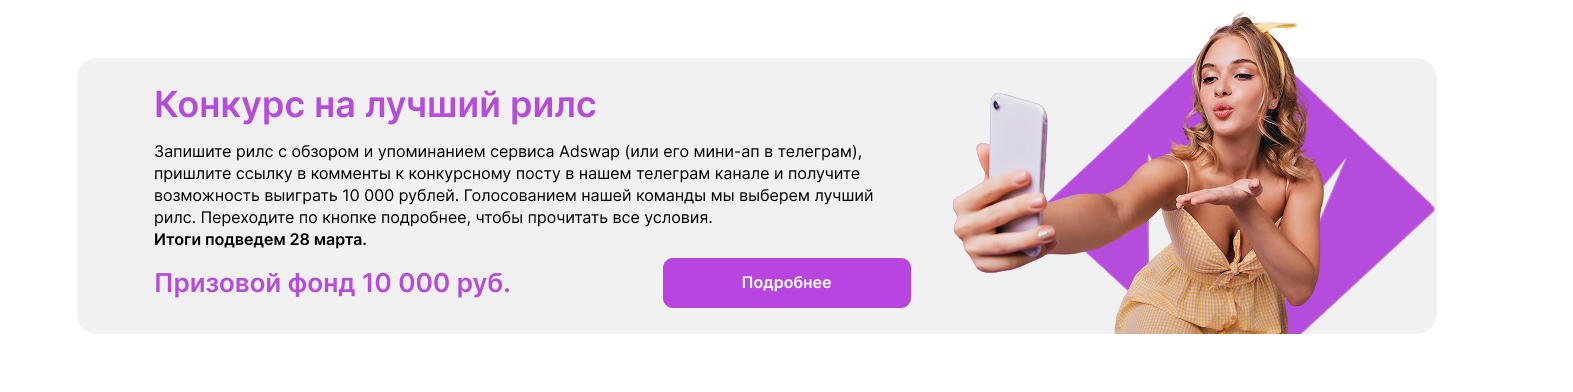
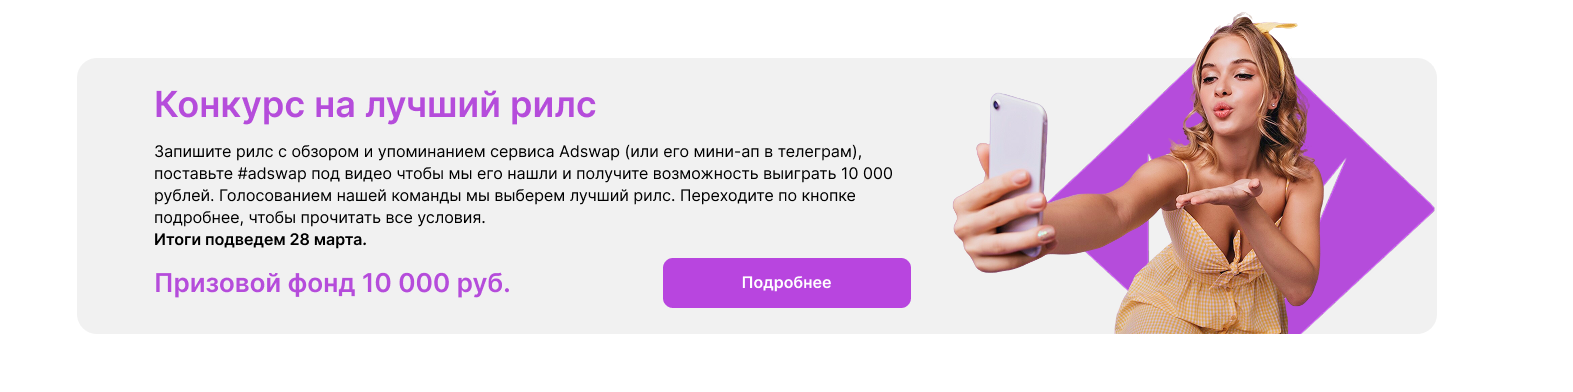
в очередной раз исправляю текст в баннере в предложениях

Changed region(s): [[0.0935, 0.4286, 0.5607, 0.5816]]

diff --git a/resources/js/src/modules/public/seller/partners/index.vue b/resources/js/src/modules/public/seller/partners/index.vue
@@ -17,8 +17,8 @@
                                     Конкурс на лучший рилс
                                 </div>
                                 <div class="partners__item-text">
-                                    Запишите рилс с образом и упоминание сервиса Adswap(или его мини-ап в телеграм), пришлите ссылку в комментарии к конкурсному посту в нашем телерам канале и получите возможность выиграть 10 000 рублей. Голосованием нашей команды мы выберем лучший рилс. Переходите по кнопке подробнее, чтобы получить все условия.<br>
-                                    <b>Итоги подведем 28 марта.</b>
+                                    Запишите короткое видео (15-60 секунд) с обзором и упоминанием сервиса Adswap (или его мини-ап в телеграм), поставьте #adswap под видео чтобы мы его нашли и получите возможность выиграть 10 000 рублей. Голосованием нашей команды мы выберем лучший рилс, будем учитывать не только просмотры, но и креативность, активность блогера и тд.
+                                    <b>Старт конкурса 28 февраля. Итоги подведем 28 марта.</b>
                                 </div>
                                 <div class="partners__item-subtitle partners__item--accent">
                                     Призовой фонд 10 000 руб.
